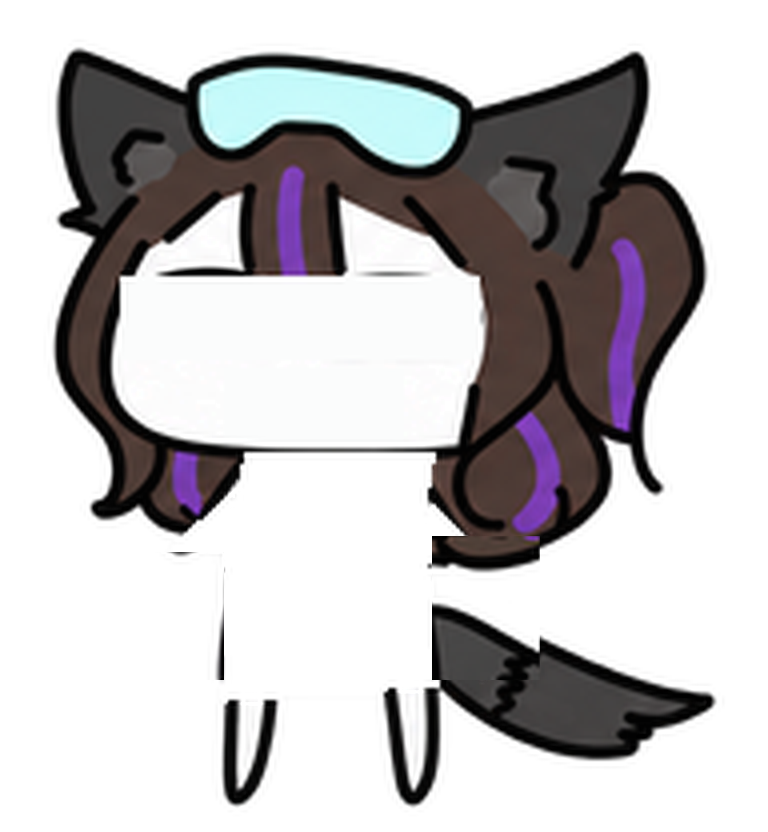
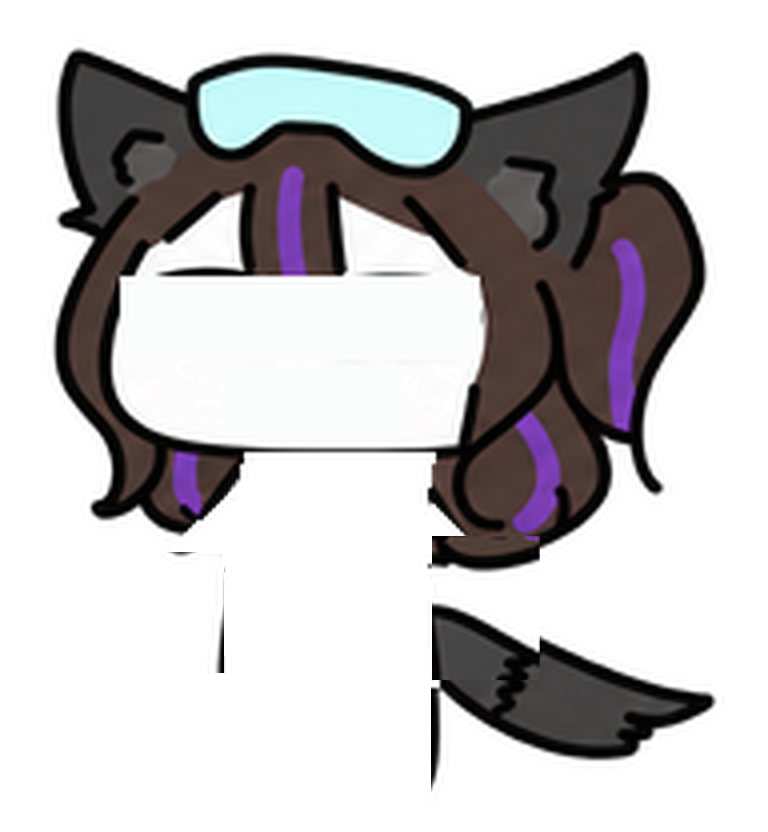
fix: dress clothes over a complete base body

Changed region(s): [[0.2812, 0.8125, 0.375, 0.9688], [0.5, 0.8125, 0.5625, 0.9688]]

diff --git a/src/playground/jjongjjoe-dressup/index.html b/src/playground/jjongjjoe-dressup/index.html
@@ -9,7 +9,7 @@
 <body>
  <header class="header"><a class="back" href="../">← Playground</a><a class="wordmark" href="./">죵쬐 옷장<span>DRESS UP STUDIO</span></a><button class="quiet" id="guide-open">옷 만드는 방법 ↗</button></header>
  <main>
-  <div class="intro"><div><p class="eyebrow">달콤레나의 죵쬐와 놀기</p><h1>오늘은 뭐 입지<span>?</span></h1><p>표정도, 옷도, 내 취향대로. 죵쬐의 새로운 모습을 만들어봐요.</p></div><span class="intro-tag">작은 옷장, 무한한 조합 ✦</span></div>
+  <div class="intro"><div><p class="eyebrow">달콤레나의 죵쬐와 놀기</p><h1>오늘은 뭐 입지<span>?</span></h1><p>기본 죵쬐 위에 옷을 하나씩. 나만의 스타일을 만들어봐요.</p></div><span class="intro-tag">작은 옷장, 무한한 조합 ✦</span></div>
   <div class="studio">
    <section class="preview-panel" aria-label="캐릭터 미리보기">
     <div class="panel-top"><span><i class="dot"></i> 나의 죵쬐</span><button id="reset" class="quiet">처음으로 ↺</button></div>
@@ -22,6 +22,7 @@
     <div class="tabs" role="tablist" aria-label="부위 선택">
      <button role="tab" id="tab-clothes" aria-controls="catalog" aria-selected="true" tabindex="0" data-category="clothes">옷</button><button role="tab" id="tab-eyes" aria-controls="catalog" aria-selected="false" tabindex="-1" data-category="eyes">눈</button><button role="tab" id="tab-mouth" aria-controls="catalog" aria-selected="false" tabindex="-1" data-category="mouth">입</button><button role="tab" id="tab-arms" aria-controls="catalog" aria-selected="false" tabindex="-1" data-category="arms">팔</button><button role="tab" id="tab-accessory" aria-controls="catalog" aria-selected="false" tabindex="-1" data-category="accessory">소품</button>
     </div>
+    <p class="hint">옷 카드를 고르면 기본 몸 위에 입혀져요. 기본 몸을 선택하면 옷을 벗길 수 있어요.</p>
     <div id="catalog" class="catalog" role="tabpanel" aria-labelledby="tab-clothes"></div>
     <div class="import-box"><div class="import-icon">＋</div><div><h3>내가 그린 옷 입혀보기</h3><p>투명 PNG를 불러와 죵쬐에게 입혀요.</p></div><label class="import-button" for="file">PNG 불러오기<input type="file" id="file" accept="image/png"></label></div>
     <section id="adjustments" class="adjustments" hidden aria-label="직접 만든 옷 조정"><div class="section-heading"><h3>옷 맞추기</h3><button id="align-reset" class="quiet">위치 초기화</button></div><p class="hint">템플릿 크기의 옷은 그대로 맞아요. 다른 크기는 아래에서 조절하세요.</p>
@@ -38,7 +39,7 @@
   <p id="status" class="status" role="status" aria-live="polite">옷장을 준비하고 있어요…</p>
  </main>
  <footer><span>죵쬐 · 캐릭터 원작: 달콤레나</span><span>팬이 만든 옷입히기 Playground</span></footer>
- <dialog id="guide"><button id="guide-close" class="close" aria-label="안내 닫기">×</button><p class="eyebrow">MAKE YOUR OWN</p><h2>죵쬐에게 새 옷을!</h2><ol><li><strong>가이드를 내려받아요.</strong><p>768 × 832 픽셀 캔버스와 기본 옷의 위치를 기준으로 그려주세요.</p></li><li><strong>옷만 새 레이어에 그려요.</strong><p>가이드 레이어를 숨기고 투명 PNG로 저장해요. 기본 옷의 영역을 덮으면 빈틈 없이 맞아요.</p></li><li><strong>입혀보고 제안해요.</strong><p>PNG를 불러와 위치를 확인한 뒤, 옷 PNG와 제작자 정보 파일을 제안 글에 첨부해주세요. 확인 후 공용 옷장에 추가됩니다.</p></li></ol><div class="guide-actions"><button id="download-guide" class="primary">제작 가이드 PNG ↓</button><button id="download-template" class="secondary">빈 투명 템플릿 PNG ↓</button></div><p class="hint">직접 그렸거나 공유할 권한이 있는 이미지를 사용해주세요. 애니메이션용 의상은 아직 지원하지 않아요.</p></dialog>
+ <dialog id="guide"><button id="guide-close" class="close" aria-label="안내 닫기">×</button><p class="eyebrow">MAKE YOUR OWN</p><h2>죵쬐에게 새 옷을!</h2><ol><li><strong>가이드를 내려받아요.</strong><p>768 × 832 픽셀 캔버스와 기본 몸의 위치를 기준으로 그려주세요.</p></li><li><strong>옷만 새 레이어에 그려요.</strong><p>가이드 레이어를 숨기고 투명 PNG로 저장해요. 기본 몸 위에 원하는 모양의 옷을 자유롭게 그리면 돼요.</p></li><li><strong>입혀보고 제안해요.</strong><p>PNG를 불러와 위치를 확인한 뒤, 옷 PNG와 제작자 정보 파일을 제안 글에 첨부해주세요. 확인 후 공용 옷장에 추가됩니다.</p></li></ol><div class="guide-actions"><button id="download-guide" class="primary">제작 가이드 PNG ↓</button><button id="download-template" class="secondary">빈 투명 템플릿 PNG ↓</button></div><p class="hint">직접 그렸거나 공유할 권한이 있는 이미지를 사용해주세요. 애니메이션용 의상은 아직 지원하지 않아요.</p></dialog>
 <dialog id="export-dialog"><button id="export-close" class="close" aria-label="저장 이미지 닫기">×</button><h2>저장할 이미지</h2><img id="export-image" alt="저장할 투명 PNG" style="max-width:100%;max-height:65vh;object-fit:contain"><a id="export-download" class="text-link" download="죵쬐.png">PNG 다운로드 ↓</a><p class="hint">모바일에서는 이미지를 길게 눌러 저장할 수도 있어요.</p></dialog>
 </body>
 </html>

diff --git a/src/playground/jjongjjoe-dressup/app.js b/src/playground/jjongjjoe-dressup/app.js
@@ -3,7 +3,7 @@ import { catalog } from './catalog.js';
 const $=id=>document.getElementById(id);
 const canvas=$('preview'),ctx=canvas.getContext('2d');
 const items=[...catalog],images=new Map();
-const defaults={clothes:'default',eyes:'open',mouth:'closed',arms:'neutral',accessory:'none'};
+const defaults={clothes:'none',eyes:'open',mouth:'closed',arms:'neutral',accessory:'none'};
 let selected={...defaults},category='clothes',ready=false,importSerial=0;
 let transform={x:0,y:0,scale:1,order:40};
 function status(message,error=false){$('status').textContent=message;$('status').classList.toggle('error',error);}
@@ -20,7 +20,7 @@ function drawItem(target,item){
 function render(){
  if(!ready)return;
  ctx.clearRect(0,0,WIDTH,HEIGHT);ctx.imageSmoothingEnabled=true;
- const layers=[{src: selected.arms==='gesture' ? 'assets/base-gesture.png' : 'assets/base.png',order:10},...Object.keys(selected).map(current).filter(Boolean).filter(i=>i.src).map(i=>({...i,order:i.custom?transform.order:i.order}))];
+ const layers=[{src:'assets/body.png',order:5},{src: selected.arms==='gesture' ? 'assets/base-gesture.png' : 'assets/base.png',order:10},...Object.keys(selected).map(current).filter(Boolean).filter(i=>i.src).map(i=>({...i,order:i.custom?transform.order:i.order}))];
  for(const i of orderLayers(layers))drawItem(ctx,i);
 }
 function syncControls(){
@@ -63,7 +63,7 @@ $('file').addEventListener('change',async event=>{
  const file=event.target.files[0];if(!file)return;const serial=++importSerial;let url;
  try{validateFile(file);validatePngSignature(new Uint8Array(await file.slice(0,8).arrayBuffer()));status('새 옷을 불러오고 있어요…');url=URL.createObjectURL(file);const image=await loadImage(url);validateDimensions(image.width,image.height);if(serial!==importSerial)return;
   const id=`custom-${serial}`,name=file.name.replace(/\.png$/i,'');items.push(createImportedGarment(id,file.name,url));images.set(url,image);url=null;
-  selected.clothes=id;chooseCategory('clothes');syncControls();render();status('옷을 불러왔어요. 위치를 맞춰보고, 기본 옷 영역을 덮는지도 확인해주세요.');
+  selected.clothes=id;chooseCategory('clothes');syncControls();render();status('옷을 불러왔어요. 위치를 맞춰보고, 기본 몸 위에 자연스럽게 놓이는지 확인해주세요.');
  }catch(error){if(serial===importSerial)status(error.message,true);}
  finally{if(url)URL.revokeObjectURL(url);event.target.value='';}
 });
@@ -91,7 +91,7 @@ $('download-template').addEventListener('click',()=>{const c=document.createElem
 $('show-export').addEventListener('click',()=>$('export-dialog').showModal());
 $('export-close').addEventListener('click',()=>$('export-dialog').close());
 async function init(){
- try{const sources=[...new Set(['assets/base.png','assets/base-gesture.png',...items.map(i=>i.src).filter(Boolean)])];await Promise.all(sources.map(async src=>images.set(src,await loadImage(src))));ready=true;render();updateCatalog();syncControls();$('save').disabled=false;status('눈, 입, 팔과 소품을 골라보세요. 직접 그린 옷도 불러올 수 있어요.');}
+ try{const sources=[...new Set(['assets/body.png','assets/base.png','assets/base-gesture.png',...items.map(i=>i.src).filter(Boolean)])];await Promise.all(sources.map(async src=>images.set(src,await loadImage(src))));ready=true;render();updateCatalog();syncControls();$('save').disabled=false;status('눈, 입, 팔과 소품을 골라보세요. 직접 그린 옷도 불러올 수 있어요.');}
  catch(error){status(`옷장을 열지 못했어요. 새로고침 후 다시 시도해주세요. ${error.message}`,true);}
 }
 init();

diff --git a/src/playground/jjongjjoe-dressup/catalog.js b/src/playground/jjongjjoe-dressup/catalog.js
@@ -1,4 +1,5 @@
 export const catalog = [
+ {id:'none',category:'clothes',name:'기본 몸',author:'옷 없이 시작하기',src:null,order:40},
  {id:'default',category:'clothes',name:'기본 셔츠 & 스커트',author:'죵쬐 기본 의상',src:'assets/outfit-default.png',order:40},
  {id:'open',category:'eyes',name:'또렷한 눈',author:'기본 표정',src:'assets/eyes-open.png',order:20},
  {id:'closed',category:'eyes',name:'눈 감기',author:'기본 표정',src:'assets/eyes-closed.png',order:20},

diff --git a/docs/superpowers/specs/2026-10-06-jjongjjoe-dressup.md b/docs/superpowers/specs/2026-10-06-jjongjjoe-dressup.md
@@ -1,0 +1,18 @@
+# 죵쬐 옷장
+
+달콤레나의 죵쬐를 기본 몸 위에 옷과 소품을 씌우는 정지 이미지 옷입히기 게임으로 제공한다. `/playground/jjongjjoe-dressup/`에서 별도 로그인 없이 이용한다.
+
+## 조합
+기본 몸은 옷을 선택하지 않아도 온전하게 표시되는 단순한 흰색 만화 몸이다. 기존 얼굴·머리·꼬리 및 눈·입·팔 선택 이미지를 유지한다. 생성한 기본 몸의 몸통/다리 부분만 분리해서 사용한다. 의상은 기본 몸을 삭제하거나 빈 영역을 채우지 않고 그 위에 합성한다. 기본 의상으로 돌아가거나 옷을 벗길 수 있다.
+
+## 팬 의상
+방문자는 투명 PNG를 브라우저에서 불러와 위치·배율·팔 앞뒤 순서를 조정한다. 옷별 편집 상태를 유지한다. 새로고침하면 불러온 파일은 사라지므로 조정된 PNG와 정보 JSON을 내려받을 수 있다. 768×832 제작 템플릿과 기본 몸 가이드를 제공한다. 작은 소품이나 부분 의상도 기존 의상 영역을 채울 필요 없이 겹칠 수 있다.
+
+## 저장과 공유
+조합을 투명 PNG로 저장한다. 다운로드를 지원하지 않는 내장 브라우저를 위해 이미지를 열어 직접 저장하는 대안을 제공한다. 공용 등록은 GitHub 이슈에 파일과 제작자 정보, 공유 가능 범위를 직접 제출하고 운영자가 확인한 뒤 목록에 추가하는 방식이다. 자동 공개 업로드 서버는 없다.
+
+## 확인
+단위 테스트, 기존 사이트 빌드, 데스크톱·모바일 UI, 의상/표정/팔 선택, 위치·배율과 제작자 정보 유지, 투명 PNG 인코딩을 확인한다. 기본 몸과 기본 의상 착용 모두에서 몸의 빈 영역과 기존 의상 잔상이 없는지 육안으로 확인한다.
+
+## 결정 기록
+2026-10-06 사용자 피드백에 따라 초기의 투명 의상 영역을 채우는 방식에서 온전한 기본 몸 위에 의상을 겹치는 방식으로 수정했다. 기존 공유 펫이나 펫 애니메이션은 변경하지 않는다.

diff --git a/src/playground/jjongjjoe-dressup/CONTRIBUTING.md b/src/playground/jjongjjoe-dressup/CONTRIBUTING.md
@@ -8,11 +8,11 @@
 
 파일은 브라우저에서만 처리합니다. 제안 글을 직접 제출하기 전에는 서버에 전송되지 않습니다. 새로고침하면 불러온 옷은 사라지므로 파일을 저장해주세요.
 
-기본 캐릭터의 의상 영역은 투명합니다. 작은 소품만 그린 파일을 '옷'으로 넣으면 몸통이 비어 보일 수 있으므로 가이드의 기본 옷 영역을 덮어주세요. 눈/입은 얼굴 배경이 포함된 원본 부위 레이어입니다. 정지 이미지용이며 펫 애니메이션 시트로 내보내지 않습니다.
+기본 캐릭터는 옷이 없어도 온전한 흰색 몸이 남습니다. 투명 PNG 옷은 이 몸 위에 겹쳐집니다. 제작 가이드의 몸 위치를 참고하되 기존 의상 모양에 맞출 필요는 없습니다. 눈/입은 얼굴 배경이 포함된 원본 부위 레이어입니다. 정지 이미지용이며 펫 애니메이션 시트로 내보내지 않습니다.
 
 ## 운영자 등록
 
-제출자의 공유 권한·제작자 표기·PNG 크기·투명도와 기본 의상 영역을 덮는지 확인합니다. 이미지 파일을 `assets/`에 넣고 `catalog.js`에 다음 항목을 추가합니다.
+제출자의 공유 권한·제작자 표기·PNG 크기·투명도와 몸 위의 위치가 자연스러운지 확인합니다. 이미지 파일을 `assets/`에 넣고 `catalog.js`에 다음 항목을 추가합니다.
 
 ```js
 { id: 'unique-outfit-id', category: 'clothes', name: '옷 이름', author: '제작자', src: 'assets/unique-outfit.png', order: 40 }
